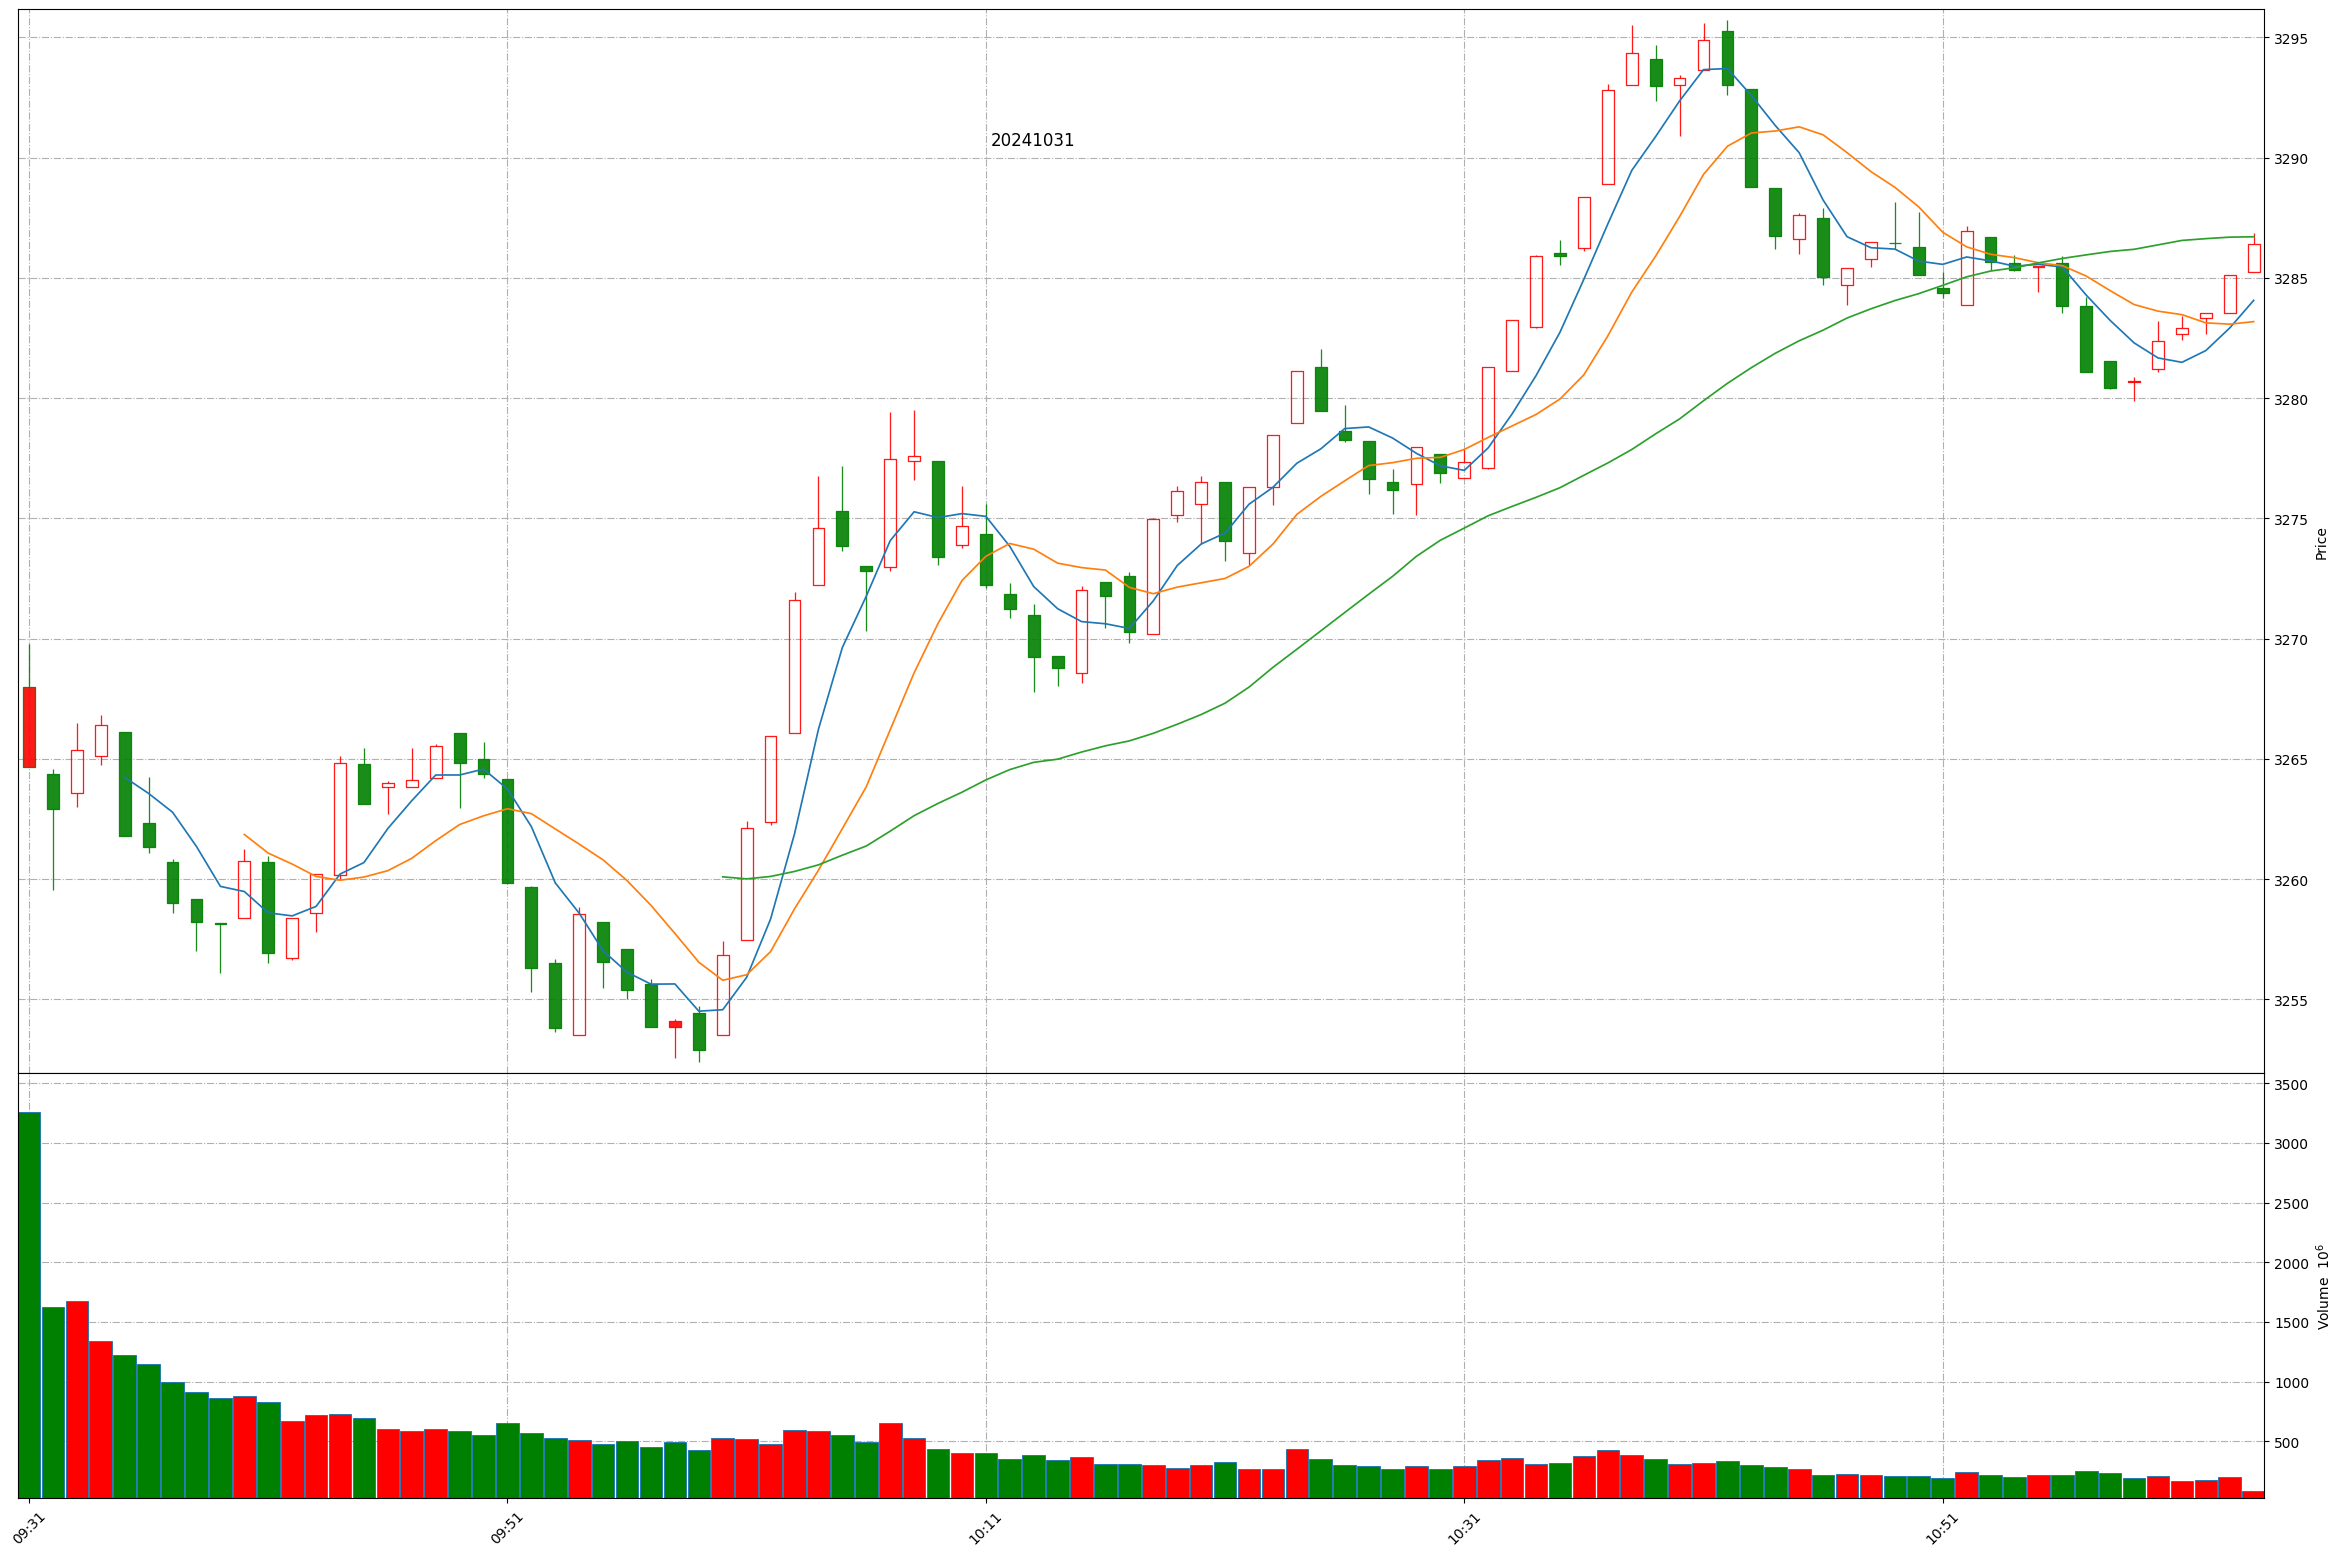
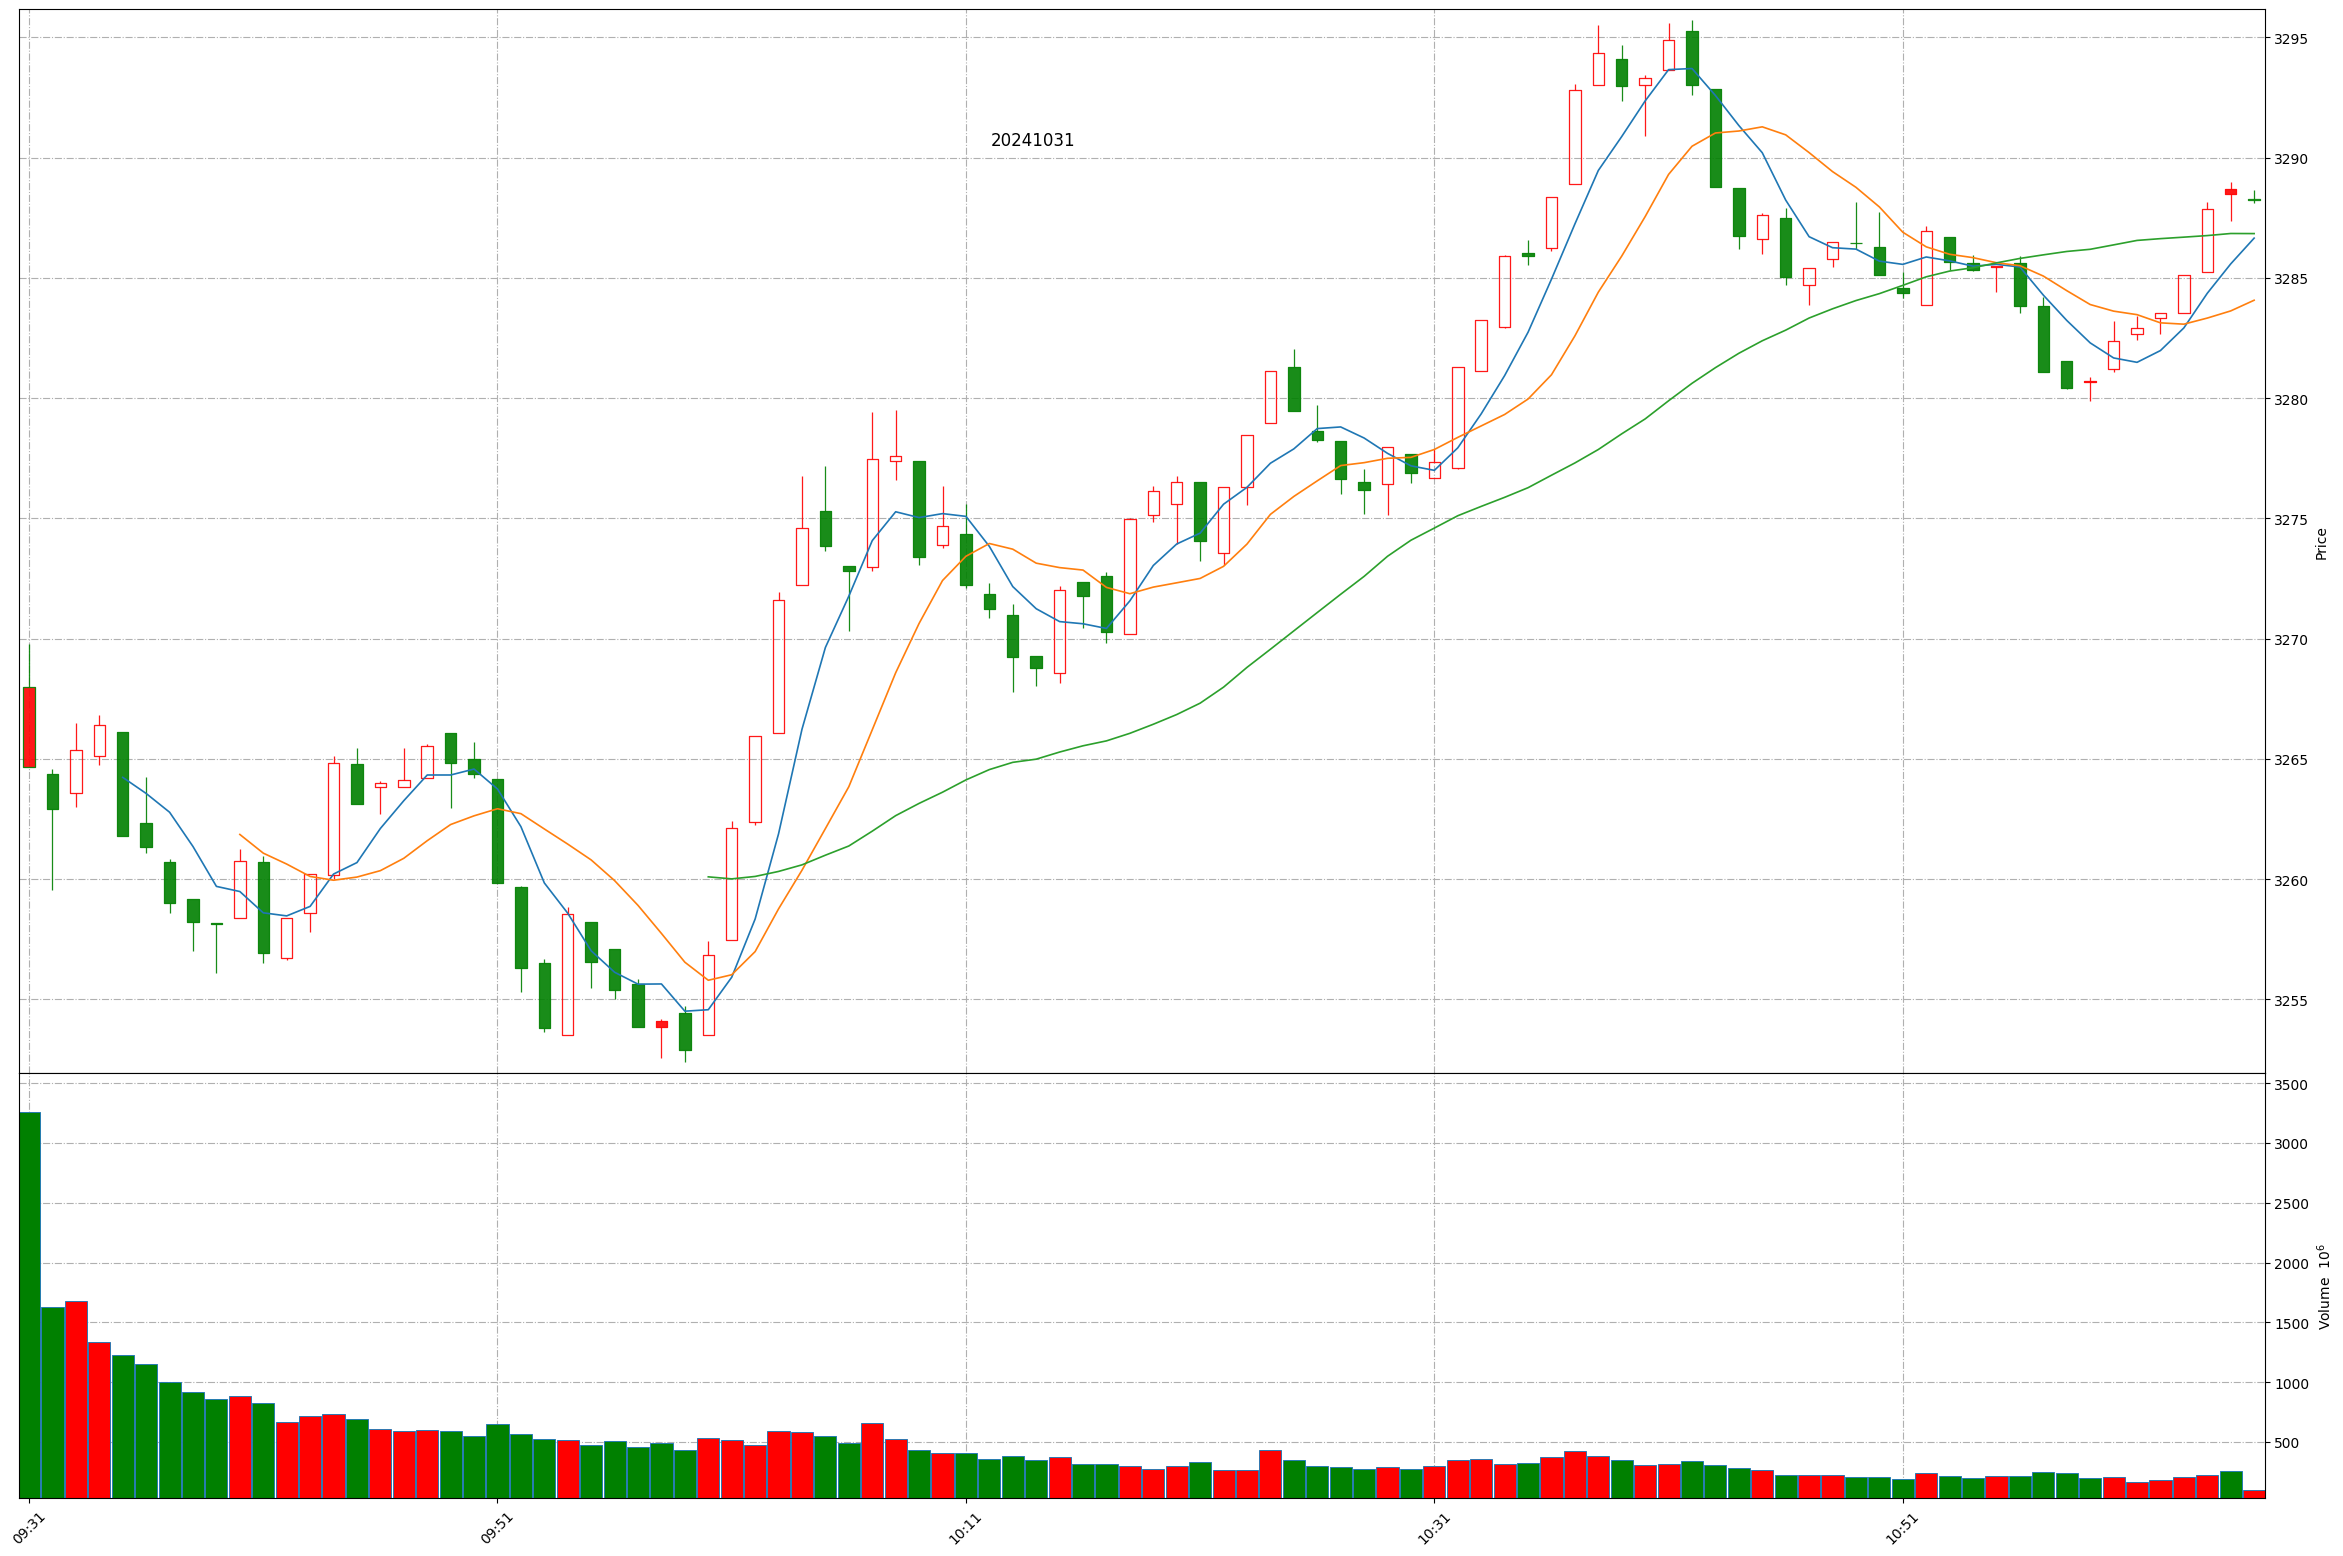
Github action update at 2024-10-31 11:05:50.

diff --git a/README.md b/README.md
@@ -1,11 +1,11 @@
 
 # Daily-A-share-market-quotes 每日 A 股指数（5min 更新）- 20241031
 
-### 上证指数 20241031 11:3
+### 上证指数 20241031 11:5
 ![](./fig/2024/10/20241031-sh000001.png)
 
-### 深证成指 20241031 11:3
+### 深证成指 20241031 11:5
 ![](./fig/2024/10/20241031-sz399001.png)
 
-### 北证50 20241031 11:3
+### 北证50 20241031 11:5
 ![](./fig/2024/10/20241031-bj899050.png)
